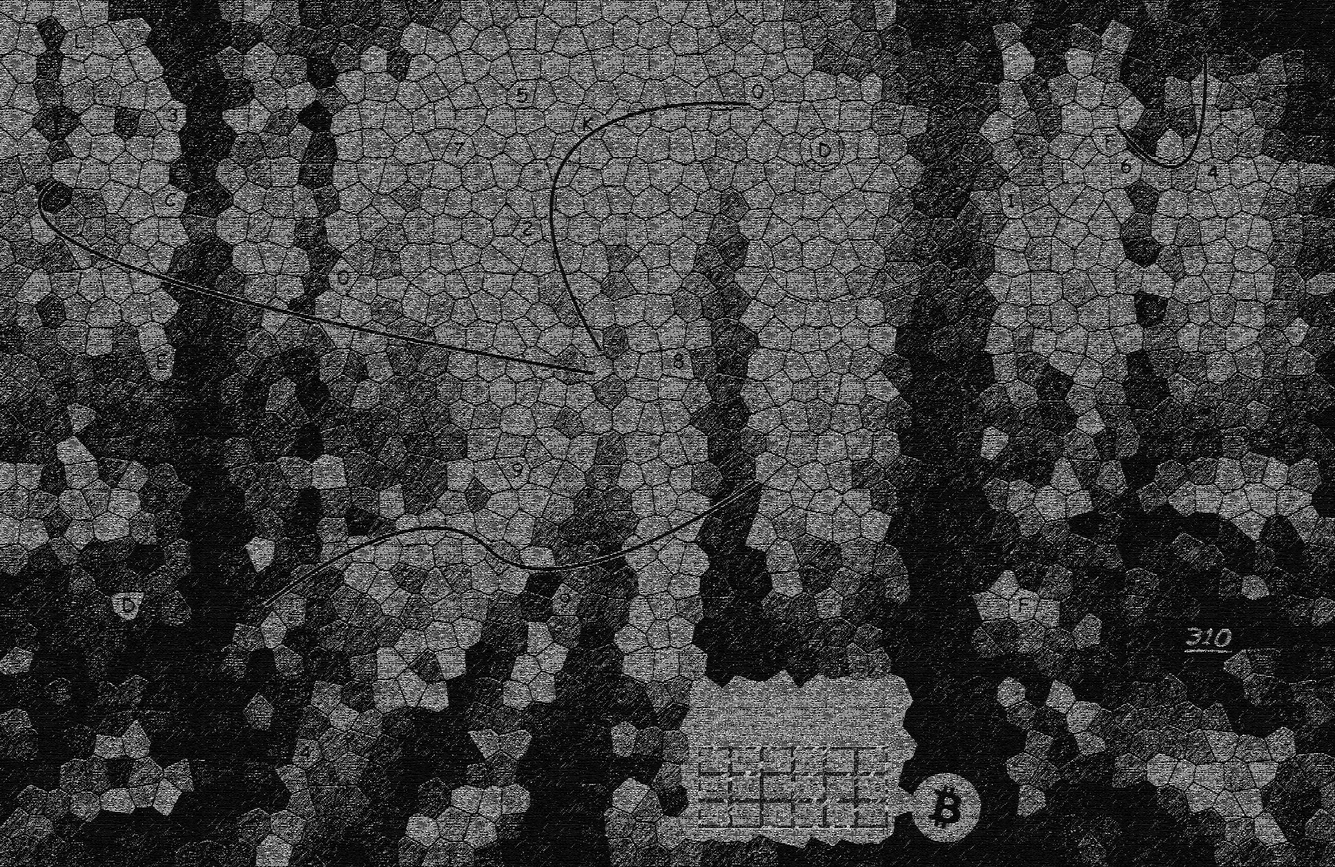
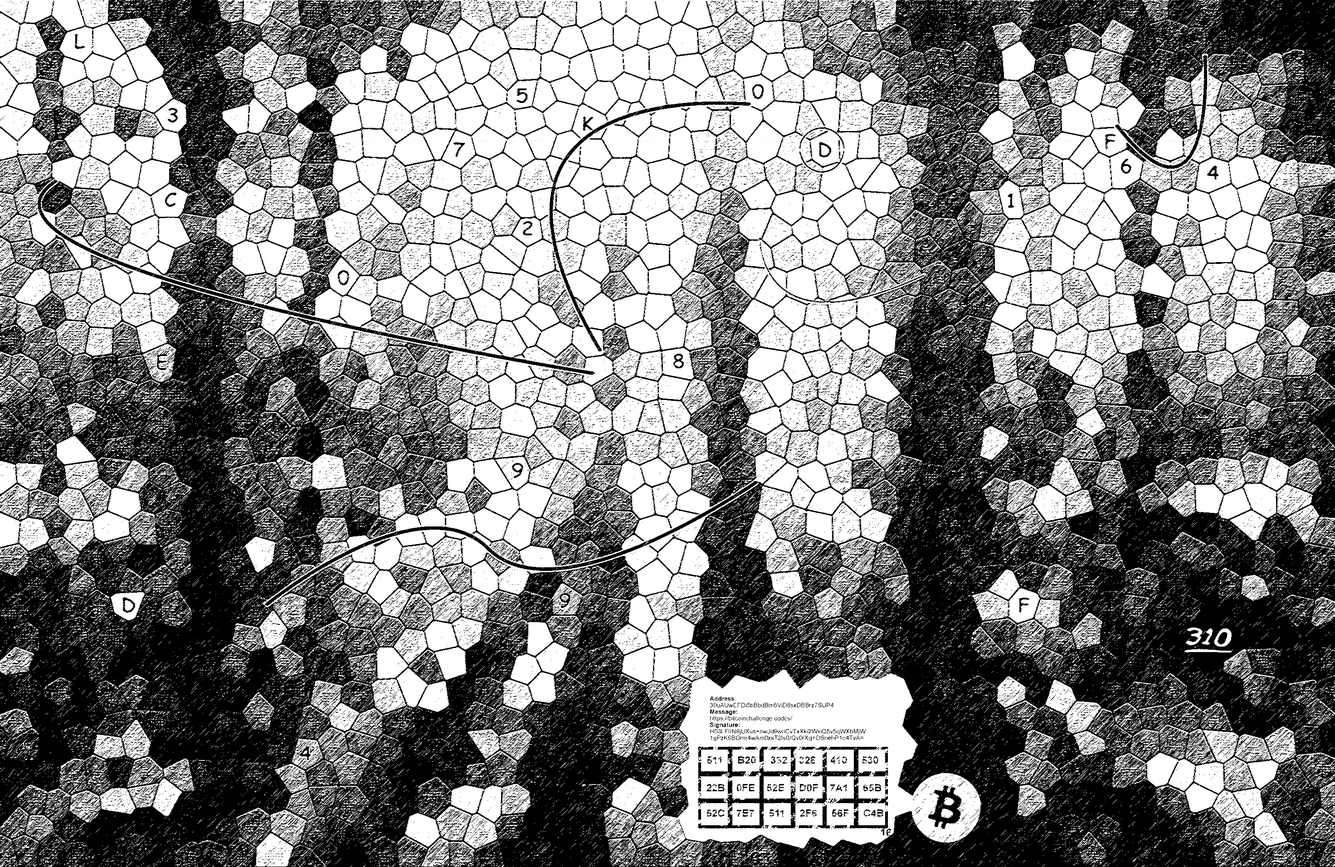
Removed the first layer of noise

diff --git a/main.py b/main.py
@@ -12,7 +12,7 @@ gray_pixels = pixels[:]
 
 row310 = [0] * w
 
-print("Detecting steganograph")
+print("Processing")
 
 for i in range(0, len(pixels), pixel_byte_width):
     x = int((i/pixel_byte_width) % w)
@@ -38,14 +38,15 @@ for i in range(0, len(pixels), pixel_byte_width):
         alpha_pixels[i+1] = 255
         alpha_pixels[i+2] = 255
 
-    if (pixel[0] != 0 and pixel[0] != 255) or (pixel[1] != 0 and pixel[1] != 255) or (pixel[2] != 0 and pixel[2] != 255):
-        gray_pixels[i+0] = pixel[0]
-        gray_pixels[i+1] = pixel[1]
-        gray_pixels[i+2] = pixel[2]
-    else:
-        gray_pixels[i+0] = 0
-        gray_pixels[i+1] = 0
-        gray_pixels[i+2] = 0
+    if pixel[0] == pixel[1] and pixel[1] == pixel[2]:
+        if pixel[0] > 0 and pixel[0] < 255:
+            gray_pixels[i+0] = round(pixel[0]/255)*255
+            gray_pixels[i+1] = round(pixel[1]/255)*255
+            gray_pixels[i+2] = round(pixel[2]/255)*255
+        #else:
+        #    gray_pixels[i+0] = 0
+        #    gray_pixels[i+1] = 0
+        #    gray_pixels[i+2] = 0
 
 
 print("Saving steganography image")
@@ -56,7 +57,7 @@ writer.write_array(output, alpha_pixels)
 output.close()
 
 
-print("Saving another steganography image")
+print("Saving noise")
 
 output = open('challenge-3.png', 'wb')
 writer = png.Writer(w, h, **metadata)
@@ -74,7 +75,7 @@ row310_message = ''.join([str(chr(b)) if b != 255 else "" for b in row310_bytes]
 
 print(row310_message)
 
-print(hashlib.sha256(row310_message).hexdigest())
+#print(hashlib.sha256(row310_message.encode("ascii")).hexdigest())
 
 
 print("Done")
